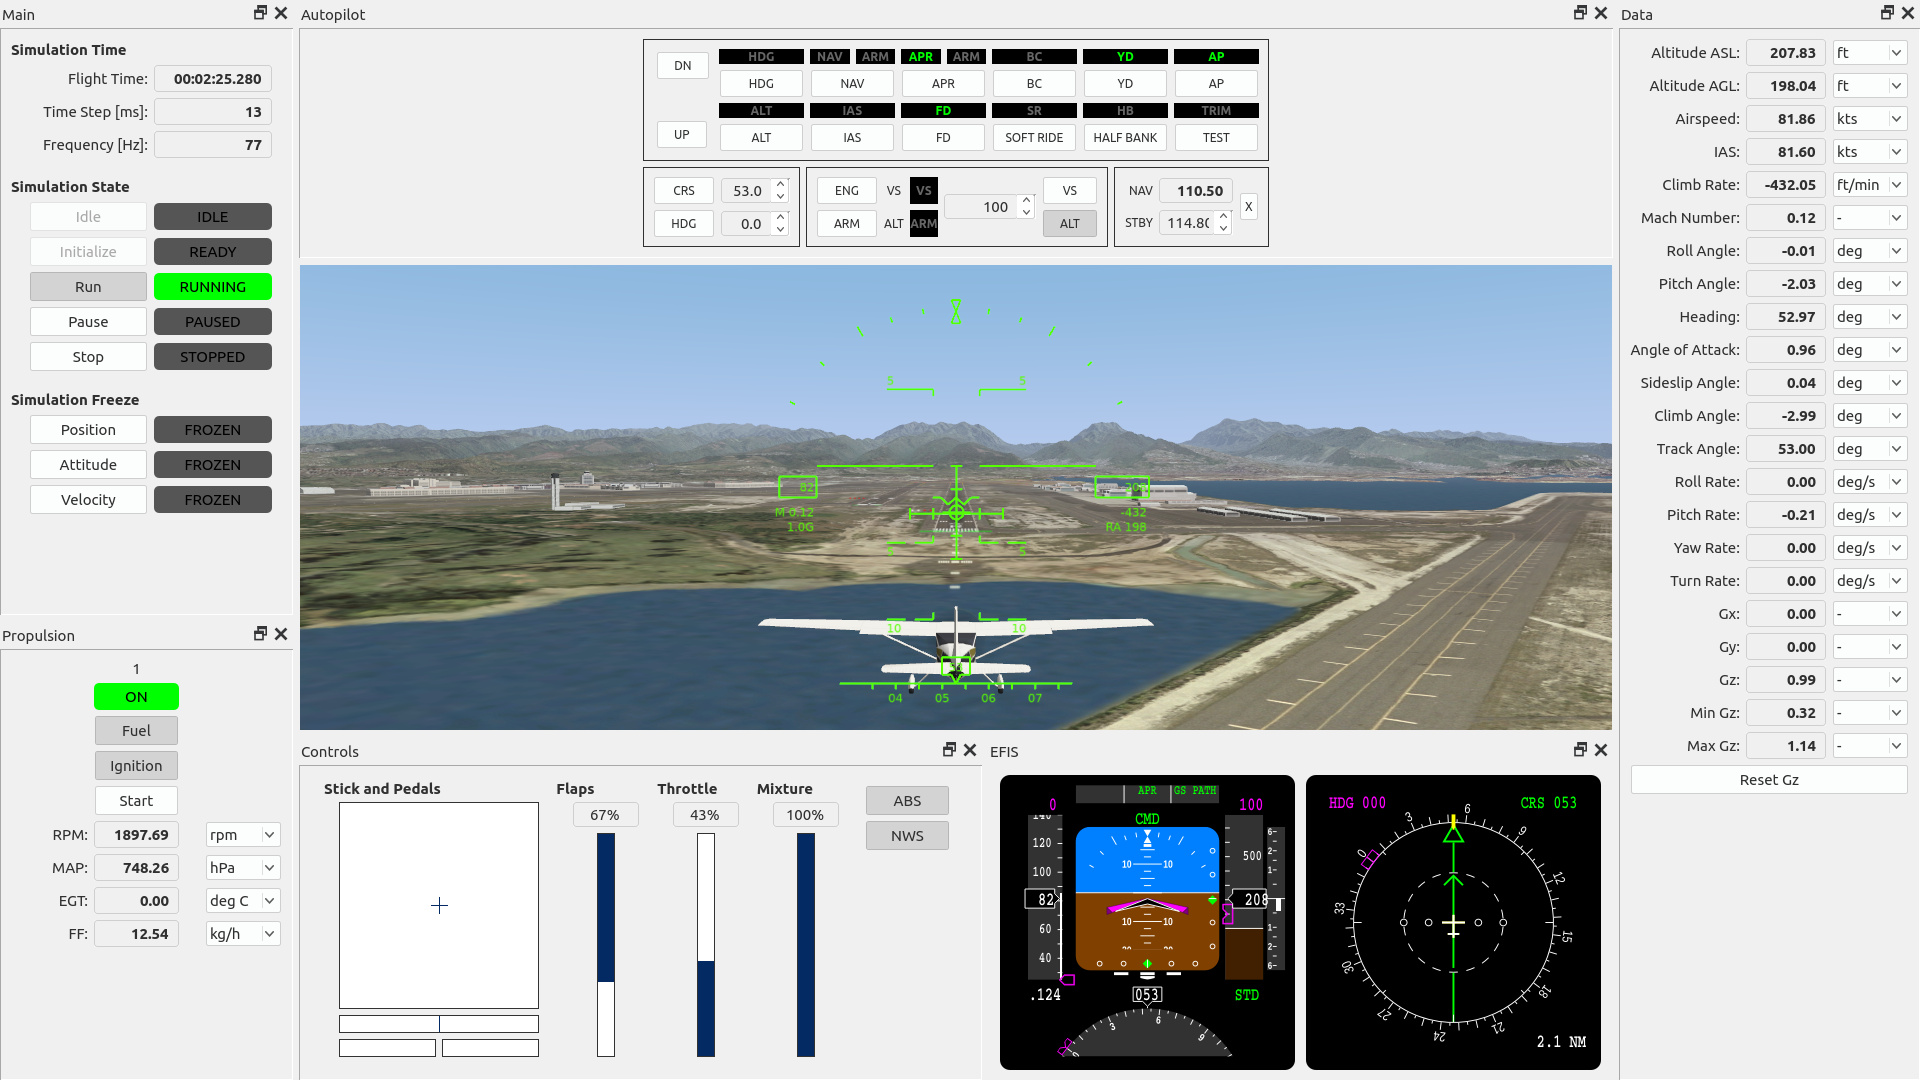
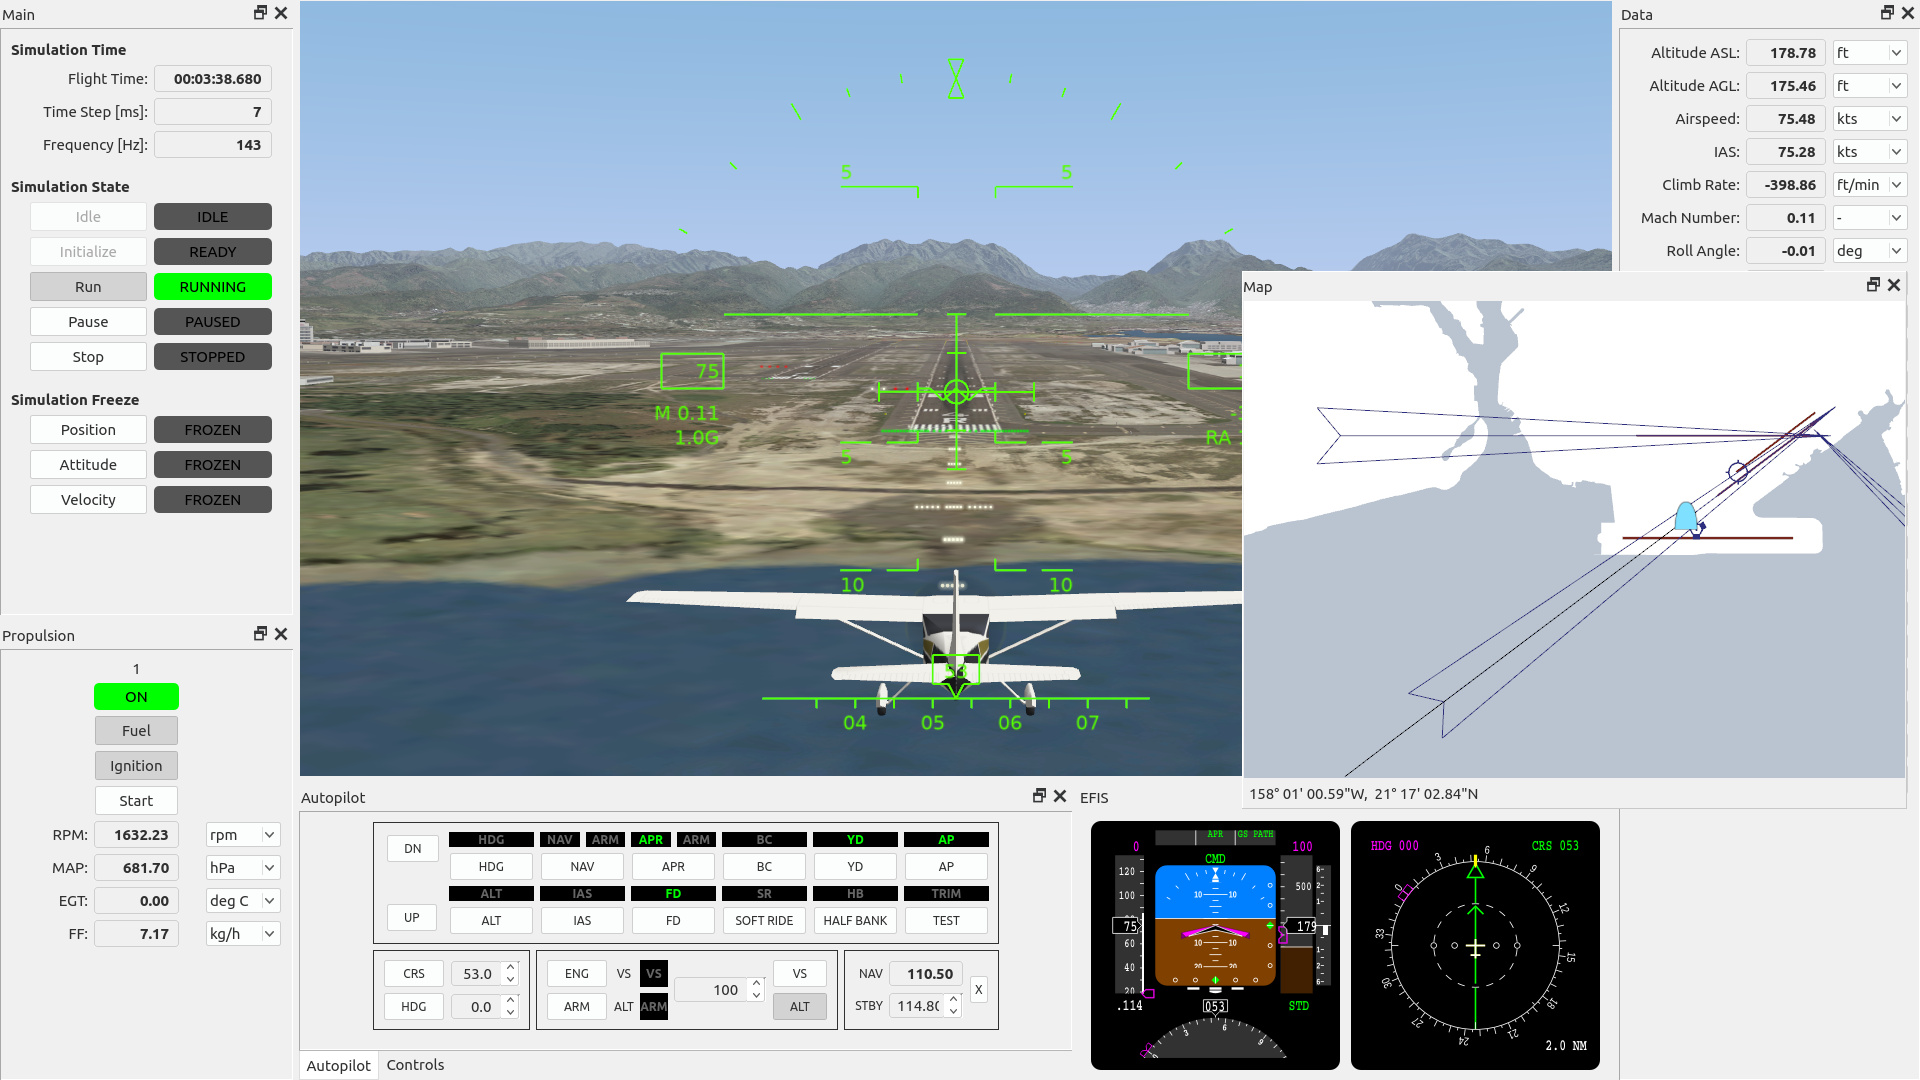
readme file nad screenshots

diff --git a/README.md b/README.md
@@ -12,21 +12,22 @@ High fidelity flight dynamics model based on available wind tunnel data and/or [
 * [R44](https://en.wikipedia.org/wiki/Robinson_R44) - light helicopter
 * [UH-60](https://en.wikipedia.org/wiki/Sikorsky_UH-60_Black_Hawk) - medium helicopter
 
-Electronic Flight Instrument System and Head-up Display common for all aircraft types.
-
-![MScSim - GUI](mscsim_gui.jpg)
 ![MScSim - AW101](mscsim_aw101.jpg)
 
-High resolution photorealistic scenery based on aerial imagery of [Oahu](https://en.wikipedia.org/wiki/Oahu) island, low resolution scenery based on satellite imagery of the whole World.
+<div style="text-align:center">Electronic Flight Instrument System and Head-up Display common for all aircraft types. Built-in map with navigational radio aids, airports, etc..</div>
+
+![MScSim - GUI](mscsim_gui.jpg)
+
+<div style="text-align:center">High resolution photorealistic scenery based on aerial imagery of Oahu island, low resolution scenery based on satellite imagery of the whole World.</div>
 
 ![MScSim - Oahu](mscsim_oahu.jpg)
 ![MScSim - PHNL](mscsim_phnl.jpg)
 
-Accurate celestial bodies position with almost 1000 visible stars.
+<div style="text-align:center">Accurate celestial bodies position with almost 1000 visible stars.</div>
 
 ![MScSim - stars](mscsim_stars.jpg)
 
-Basic weather phenomena, such as clouds and fog.
+<div style="text-align:center">Weather phenomena, such as clouds and fog.</div>
 
 ![MScSim - clouds](mscsim_clouds.jpg)
 ![MScSim - fog](mscsim_fog.jpg)
